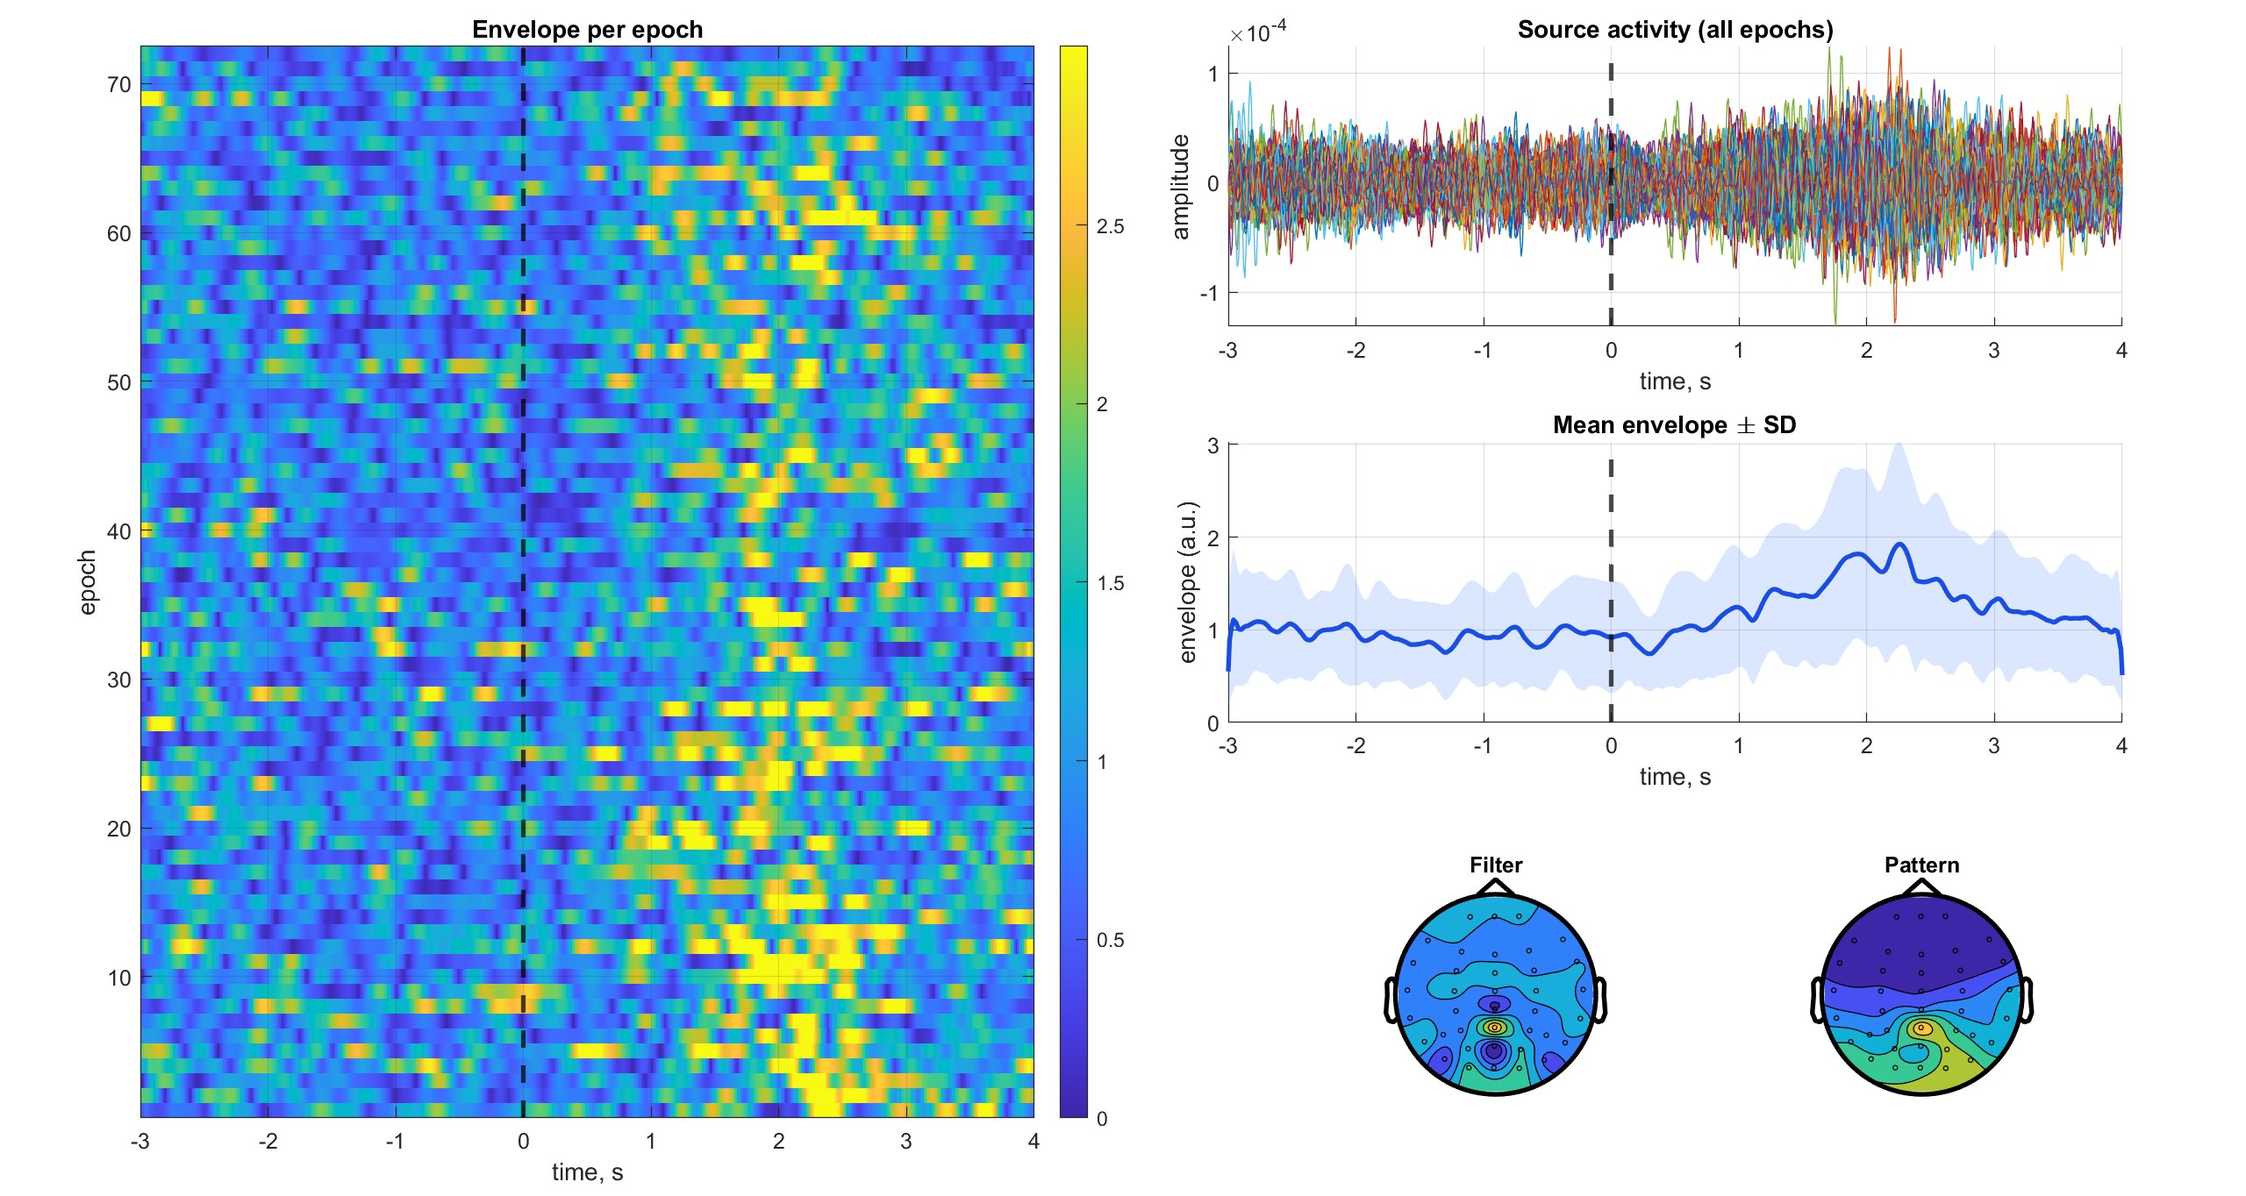
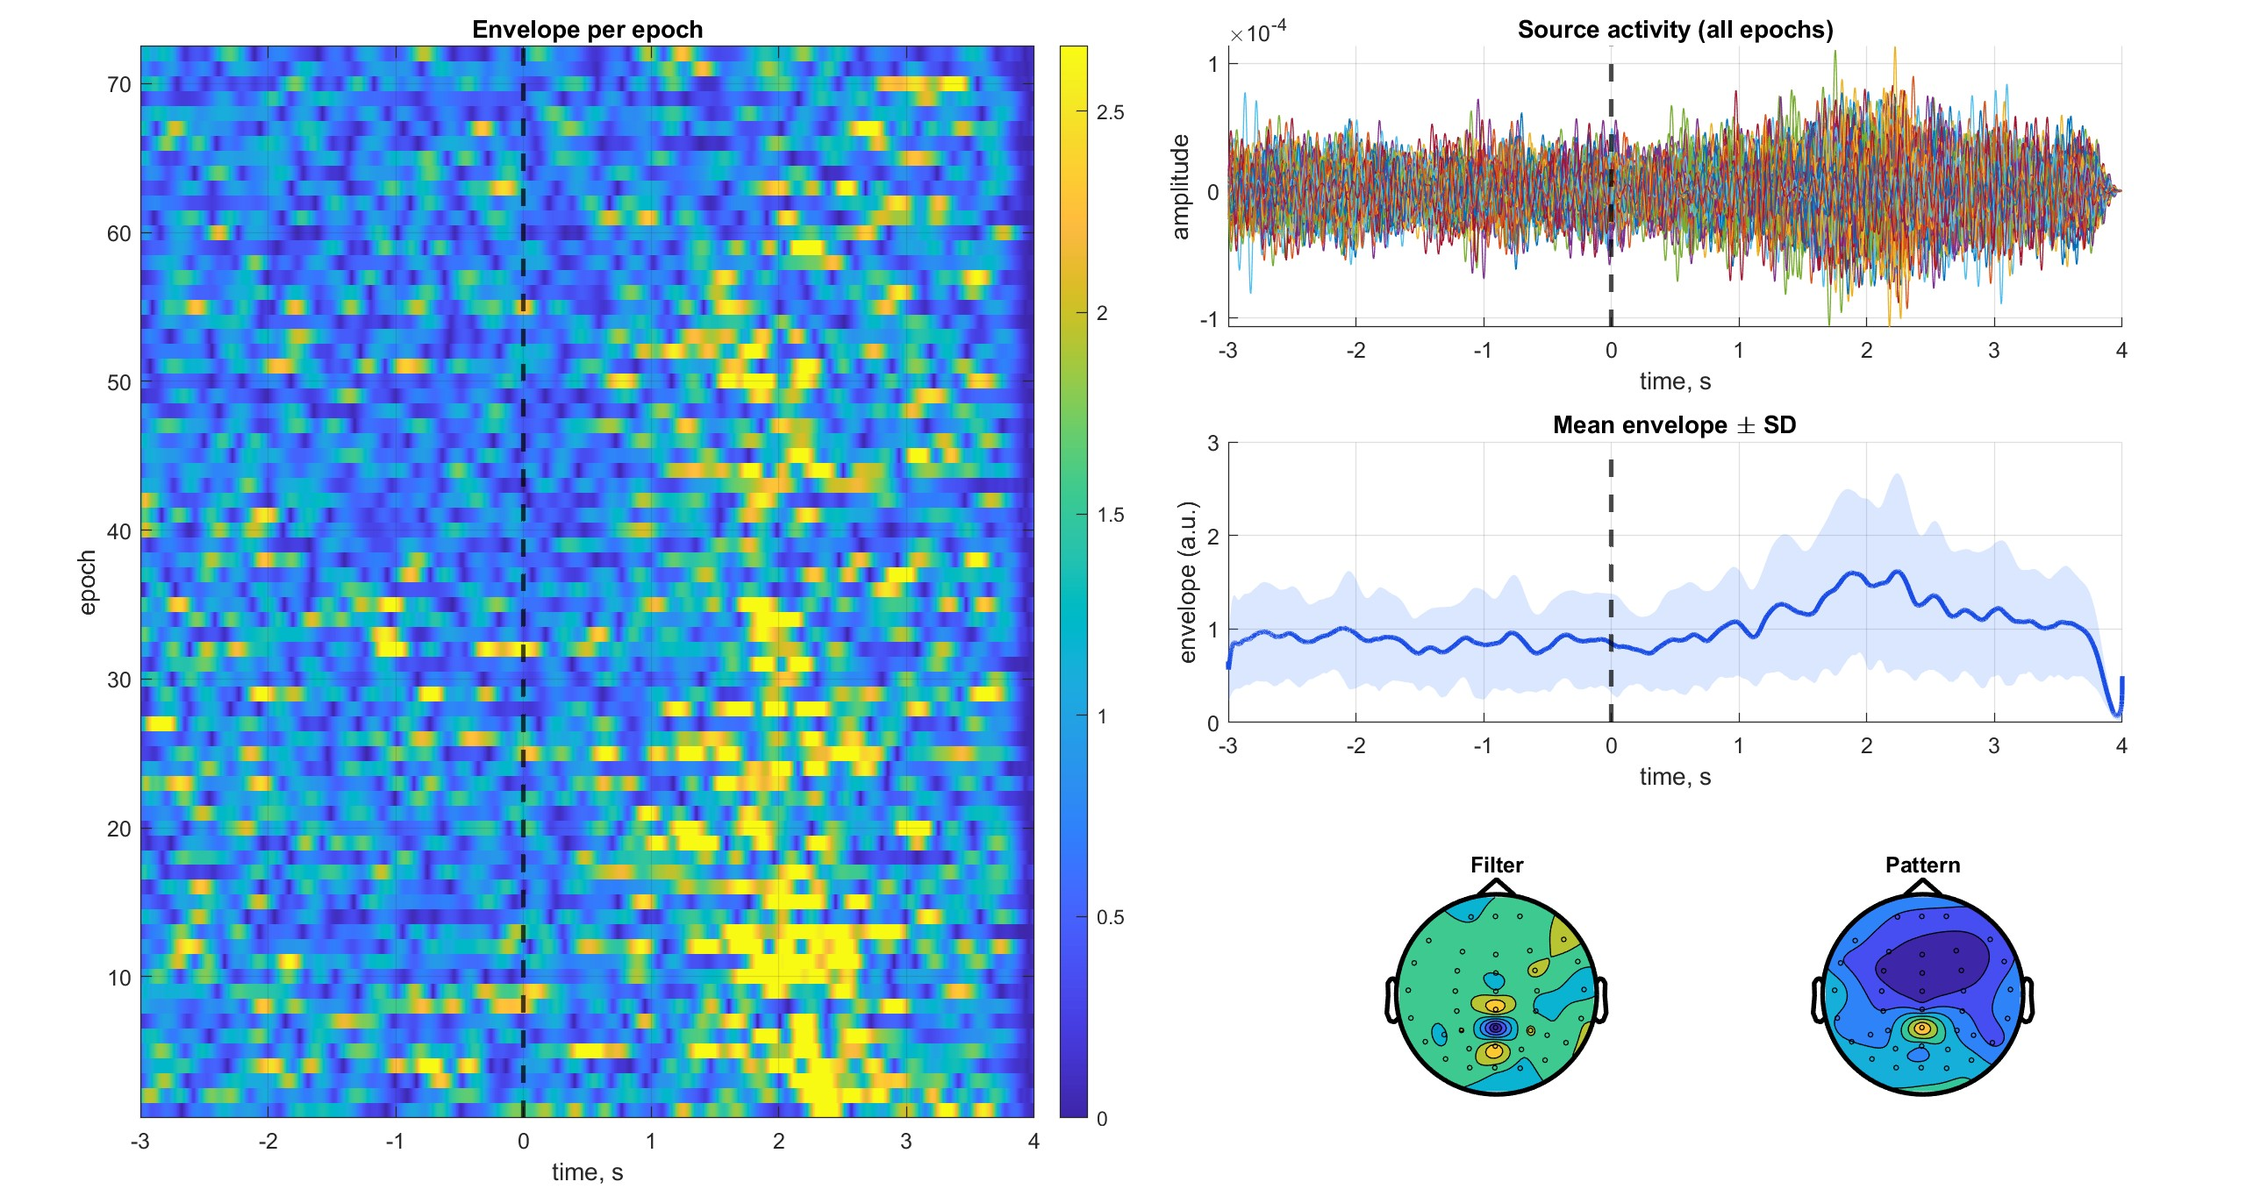
Refactor envelope analysis and update examples
Multiple updates across Cross-Subject-Rhythm and Envelope-CorrCA:

- Cross-Subject-Rhythm/examples: adjusted simulation parameters (Fs, N_subj, N_bg, SNR), added Ts, changed leadfield G to load MNE_EEG_FWD_TRPL file, and updated logging.
- Cross-Subject-Rhythm/src/find_induced_envelope.m: major refactor — removed old epoch/PCA/graph assembly, added regularization (lambda), epoching via epoch_data, Riemann distance computation, calc_riemann_dists and distance_riemann helper functions, and simplified eigen decomposition usage. Improved covariance regularization and distance-based graph building.
- Cross-Subject-Rhythm/src/generate_cross_subject_data.m: removed unused butter filter precompute and adjusted background envelope normalization loop index.
- Envelope-CorrCA/examples (MATLAB & Python): switched example datasets to ON recordings, updated epoch selection indices, changed window/step sizes, ensured proper slicing when calling env_corrca, and set default component index.
- Envelope-CorrCA/src/env_laplace_dec2.m: simplify Riemann distance computation by removing unnecessary real() cast.
- Envelope-CorrCA/src/gen_dat_corrca.m: minor formatting tweak.
- Envelope-CorrCA/pics: updated binary example image.

These changes improve realism of simulations (using real forward model), simplify and regularize covariance handling, and update examples to use ON dataset and new epoch/window settings.

diff --git a/Cross-Subject-Rhythm/src/find_induced_envelope.m b/Cross-Subject-Rhythm/src/find_induced_envelope.m
@@ -1,136 +1,53 @@
 function [U, Env_sum, Sources, L_mean, D_mean] = find_induced_envelope(X_all, Fs, Wsize, Ssize, N_comp)
-% Поиск индуцированной огибающей с использованием усреднения вероятностных
-% лапласианов по нескольким субъектам.
-%
-% Вход:
-% X_all - данные [Nsens x Nsamples x Nsubj]
-% Fs    - частота дискретизации
-% Wsize - размер окна в секундах
-% Ssize - шаг смещения окна в секундах
-% N_comp - количество извлекаемых компонент
-%
-% Выход:
-% U       - собственные векторы усредненного Лапласиана
-% Env_sum - восстановленная огибающая (сумма мощностей фильтров)
-% Sources - временные ряды извлеченных компонент
-% L_mean, D_mean - усредненные матрицы Лапласиана и диагоналей
-
 if nargin < 5
     N_comp = 5;
 end
 
 [Nsens, Nsamples, Nsubj] = size(X_all);
 
-% 1. Эпохирование и вычисление ковариационных матриц для каждого субъекта
-Covs_all_subj = {};
-Covs_vec_all_subj = {};
-Tcovs_all_subj = {};
+lambda = 0.01;
 
-% Определим размеры эпох
-window_length = round(Wsize * Fs);
-step_length = round(Ssize * Fs);
-N_epochs = floor((Nsamples - window_length) / step_length) + 1;
-
-fprintf('Разбиение на эпохи: %d окон на субъекта.\n', N_epochs);
-
-% Цикл по субъектам для получения ковариационных матриц и Лапласианов
-L_sum = 0;
-D_sum = 0;
-
+sigma = 100;
+Dists = [];
 for subj_idx = 1:Nsubj
-    X_subj = X_all(:,:,subj_idx);
+    subj_idx
+    Epochs = epoch_data(X_all(:,:,subj_idx)',Fs,Wsize,Ssize);
+    
+    [~,~,Nepochs] = size(Epochs);
 
-    % SVD/PCA для снижения размерности сенсорного пространства (опционально, но полезно для стабильности)
-    [Upca, S_pca, ~] = svd(X_subj, 'econ');
-    S_pca = diag(S_pca);
-    tol = max(size(X_subj)) * eps(S_pca(1));
-    r = sum(S_pca > tol);
-    ve = S_pca.^2;
-    var_explained = cumsum(ve) / sum(ve);
-    var_explained(end) = 1;
-    n_components = find(var_explained >= 0.99, 1);
-    n_components = max(min(n_components, r), 1);
-    Upca = Upca(:, 1:n_components);
-    X_subj_pca = Upca' * X_subj;
+    Covs_reg = zeros(Nsens,Nsens,Nepochs);
+    for ep_idx = 1:Nepochs
+        C = cov(Epochs(:,:,ep_idx));
+        Covs_reg(:,:,ep_idx) = C + lambda * eye(Nsens); 
+    end    
 
-    % Нарезаем на окна
-    ep_wins = zeros(n_components, window_length, N_epochs);
-    for i = 1:N_epochs
-        start_idx = (i-1)*step_length + 1;
-        end_idx = start_idx + window_length - 1;
-        ep_wins(:,:,i) = X_subj_pca(:, start_idx:end_idx);
-    end
-
-    % Ковариационные матрицы
-    Covs = zeros(n_components, n_components, N_epochs);
-    Covs_vec = zeros(N_epochs, n_components * (n_components + 1) / 2);
-
-    for i = 1:N_epochs
-        C = cov(ep_wins(:,:,i)');
-        Covs(:,:,i) = C;
-        % Верхнетреугольная часть
-        Covs_vec(i,:) = C(triu(true(size(C))));
-    end
-
-    % Для графа используем Евклидово расстояние между векторами ковариаций (или касательное пространство)
-    % Так как у каждого субъекта свое PCA пространство, риманово среднее считать между субъектами сложно
-    % Но мы строим граф (L, D) по эпохам ВНУТРИ субъекта!
-
-    % Построение Лапласиана для субъекта (аналогично laplace_embedding.m)
-    sigma = 10; % Параметры можно вынести в аргументы
-    N_neigb = 10;
-
-    % [L, D, ~, ~] = laplace_embedding(Covs_vec, sigma, N_neigb);
-    % Реализуем локально, чтобы не зависеть от внешних файлов
-    [idx, D_knn] = knnsearch(Covs_vec, Covs_vec, 'K', N_neigb + 1, 'Distance', 'euclidean');
-    idx(:, 1) = [];
-    D_knn(:, 1) = [];
-    weights = exp(-(D_knn.^2) / (2 * sigma^2));
-    row_idx = repmat((1:N_epochs)', 1, N_neigb);
-    W_n = sparse(row_idx(:), idx(:), weights(:), N_epochs, N_epochs);
-    W = max(W_n, W_n');
-    D = diag(sum(W, 2));
-    L = D - W;
-
-    % Суммируем Лапласианы
-    if subj_idx == 1
-        L_sum = L;
-        D_sum = D;
-    else
-        L_sum = L_sum + L;
-        D_sum = D_sum + D;
-    end
-
-    % Сохраняем данные для восстановления огибающей
-    Covs_all_subj{subj_idx} = Covs;
-    Covs_vec_all_subj{subj_idx} = Covs_vec;
+    Dist = calc_riemann_dists(Covs_reg);    
+    W = exp(-(Dists.^2) / (2 * sigma^2));
+    Dists(:,:,subj_idx) = W; 
 end
 
-% Усредняем Лапласианы
-L_mean = L_sum / Nsubj;
-D_mean = D_sum / Nsubj;
-
-% 2. Находим собственные векторы усредненного графа Лапласиана
-% 'sm' - smallest magnitude, т.к. 'sr' (smallest real) может ругаться в octave/matlab для обобщенной задачи
-[U, S_eig] = eigs(L_mean, D_mean, N_comp + 1, 'sm');
+[U, S_eig] = eigs(L, D, N_comp + 1, 'sm');
 S_eig = diag(S_eig);
-U = U(:, 2:end); % Отбрасываем первую компоненту (соответствует собственному значению 0)
+U = U(:, 2:end);
 
 Sources = U;
 
-% 3. Восстановление огибающей для первого собственного вектора
-% Мы используем данные первого субъекта для демонстрации (т.к. у каждого свое PCA)
-% В идеале, проекция должна быть усреднена или применена к общему сенсорному пространству
-comp_idx = 1;
-subj_idx_for_env = 1;
+end
 
-Covs_pca = Covs_all_subj{subj_idx_for_env};
-Covs_vec_pca = Covs_vec_all_subj{subj_idx_for_env};
-n_comp_pca = size(Covs_pca, 1);
+function Dists = calc_riemann_dists(Covs)
+    n = size(Covs,3);
+    Dists = zeros(n);
+    for i=1:n-1
+        for j=i+1:n
+            A = Covs(:,:,i);
+            B = Covs(:,:,j);
+            d = distance_riemann(A,B); 
+            Dists(i,j) = d;
+        end
+    end
+    Dists = (Dists + Dists');
+end
 
-% Поскольку U содержит временную динамику по окнам (собственные векторы Лапласиана),
-% мы можем напрямую использовать ее как огибающую, как в laplacian_decomposition.m
-Env_sum = Sources(:, comp_idx);
-Env_sum = (Env_sum - mean(Env_sum)) / std(Env_sum);
-
+function a = distance_riemann(A,B)
+    a = sqrt(sum(log(eig(A,B)).^2));
 end

diff --git a/Envelope-CorrCA/examples/example_center-out.m b/Envelope-CorrCA/examples/example_center-out.m
@@ -9,8 +9,8 @@ if ~exist('ft_defaults','file')
 end
 
 %% Target epochs
-sub_path = 'D:\OS(CURRENT)\data\parkinson\pathology\Patient_1_CenterOut_OFF_EEG_clean_epochs.fif';
-% sub_path = 'D:\OS(CURRENT)\data\parkinson\control\Control_4_CenterOut_epochs.fif';
+sub_path = 'D:\OS(CURRENT)\data\parkinson\pathology\Patient_1_CenterOut_ON_EEG_clean_epochs.fif';
+% sub_path = 'D:\OS(CURRENT)\data\parkinson\control\Control_7_CenterOut_epochs.fif';
 cfg = [];
 cfg.dataset = sub_path; 
 Epochs_inf = ft_preprocessing(cfg); 
@@ -20,19 +20,28 @@ Fs = Epochs_inf.hdr.Fs;
 [~, n_ts_ep] = size(Epochs_inf.trial{1});
 
 %%
-idxs = [  0,   1,   2,   3,   6,   8,  12,  13,  15,  16,  17,  19,  22,...
-        24,  25,  28,  30,  32,  33,  35,  37,  39,  41,  42,  44,  45,...
-        48,  50,  51,  55,  57,  58,  59,  62,  63,  65,  69,  70,  73,...
-        74,  75,  78,  79,  82,  85,  88,  89,  92,  93,  94,  97, 100,...
-       101, 103, 105, 106, 109, 110, 111, 116, 117, 120, 121, 123, 125,...
-       127, 130, 131, 133, 135, 136, 137] + 1;
+% idxs = [  0,   1,   2,   3,   6,   8,  12,  13,  15,  16,  17,  19,  22,...
+%         24,  25,  28,  30,  32,  33,  35,  37,  39,  41,  42,  44,  45,...
+%         48,  50,  51,  55,  57,  58,  59,  62,  63,  65,  69,  70,  73,...
+%         74,  75,  78,  79,  82,  85,  88,  89,  92,  93,  94,  97, 100,...
+%        101, 103, 105, 106, 109, 110, 111, 116, 117, 120, 121, 123, 125,...
+%        127, 130, 131, 133, 135, 136, 137] + 1;
+idxs = [  0,   1,   4,   5,   7,   8,   9,  10,  13,  15,  17,  18,  19,...
+        24,  25,  27,  30,  32,  33,  35,  38,  39,  41,  43,  45,  46,...
+        50,  53,  54,  56,  58,  59,  60,  64,  65,  68,  69,  71,  72,...
+        75,  76,  77,  78,  82,  84,  86,  87,  89,  91,  93,  96,  97,...
+        98, 102, 103, 105, 108, 109, 112, 115, 116, 119, 120, 125, 126,...
+       129, 130, 131, 132, 135, 137, 139, 143, 145] + 1;
+
+all_idxd = 1:numel(Epochs_inf.trial);
+% idxs = setdiff(all_idxd, idxs); 
 
 Fmin = 9;
 Fmax = 14;
 band = [Fmin Fmax];
 
-Wsize = 0.125;
-Ssize = 0.05;
+Wsize = 1/Fmin;
+Ssize = Wsize/2;
 
 [b_band,a_band] = butter(4, band/(Fs/2));
 
@@ -46,15 +55,16 @@ for ep_idx=1:numel(Epochs_inf.trial)
     Epochs(:,:,ep_idx) = Epfilt;
     Epochs_alg(:,:,ep_idx) = Epfilt(Fs/2+1:end-Fs/2,:);
 end
+
 Epochs = Epochs(:,:,idxs);
 Epochs_alg = Epochs_alg(:,:,idxs);
 
-[W, A] = env_corrca(Epochs_alg, Fs, Wsize, Ssize);
+[W, A] = env_corrca(Epochs_alg(:,:,:), Fs, Wsize, Ssize);
 % [W, A] = env_laplace_dec2(Epochs, Fs, Wsize, Ssize);
 
 %%
 gl_c = 1;
-comp_idx = 38;
+comp_idx = 1;
 wx = squeeze(W(gl_c,:,comp_idx))';
 patt = squeeze(A(gl_c,:,comp_idx));
 % wx = squeeze(W(:,comp_idx));

diff --git a/Cross-Subject-Rhythm/examples/example_cross_subject.m b/Cross-Subject-Rhythm/examples/example_cross_subject.m
@@ -7,19 +7,15 @@ clear; close all; clc;
 addpath(fullfile(pwd, '..', 'src'));
 
 %% 1. Параметры симуляции
-Fs = 250;               % Частота дискретизации, Гц
+Fs = 100;               % Частота дискретизации, Гц
 Ts = 10;                % Длительность записи, с
 flanker = 1;            % Отступы по краям для устранения краевых эффектов
-N_subj = 10;            % Количество субъектов (например, 10 участников)
+N_subj = 15;            % Количество субъектов 
 N_distr = 1;            % Количество целевых индуцированных источников
-N_bg = 10;              % Количество фоновых шумящих источников
-SNR = 5;                % Отношение сигнал/шум для амплитуды целевой огибающей
+N_bg = 50;              % Количество фоновых шумящих источников
+SNR = 10;                % Отношение сигнал/шум для амплитуды целевой огибающей
 
-% Создаем синтетическую матрицу Leadfield (G)
-% Для примера возьмем 30 сенсоров и 100 возможных диполей в мозге (по 3 оси на каждый)
-Nsens = 30;
-Nsites = 100;
-G = randn(Nsens, Nsites * 3);
+G = load('D:\OS(CURRENT)\data\simulation_support_data\eeg\MNE_EEG_FWD_TRPL.mat').MNE_EEG_FWD_TRPL;
 
 fprintf('Генерация данных для %d субъектов...\n', N_subj);
 tic;

diff --git a/Cross-Subject-Rhythm/src/generate_cross_subject_data.m b/Cross-Subject-Rhythm/src/generate_cross_subject_data.m
@@ -36,9 +36,6 @@ tm_snr = tm * SNR;
 tm_snr = tm_snr - min(tm_snr) + eps; % Положительная огибающая
 target_env = tm_snr;
 
-% Массивы фильтров для шума
-[bn, an] = butter(4, [1, 35] / (Fs / 2)); % Для белого шума (сенсорный шум)
-
 % Предварительно выделяем память для всех субъектов
 X_all_subjects = zeros(Nsens, N, N_subj);
 
@@ -109,7 +106,7 @@ for k = 1:Ndistr
 end
 
 % Добавляем вариации к фоновым огибающим и нормализуем
-for k = Ndistr+1:Nsrc
+for k = 1:Nsrc
     m = M(k,:);
     m = (m - mean(m)) / std(m);
 

diff --git a/Envelope-CorrCA/examples/example_center-out.py b/Envelope-CorrCA/examples/example_center-out.py
@@ -12,8 +12,8 @@ from matplotlib.gridspec import GridSpec
 
 # %%
 # For parkinson example chose 8-12 Hz filter below
-dpath = 'D:/OS(CURRENT)/data/parkinson/pathology/Patient_1_CenterOut_OFF_EEG_clean_epochs.fif'
-# dpath = 'D:/OS(CURRENT)/data/parkinson/control/Control_4_CenterOut_epochs.fif'
+dpath = 'D:/OS(CURRENT)/data/parkinson/pathology/Patient_1_CenterOut_ON_EEG_clean_epochs.fif'
+# dpath = 'D:/OS(CURRENT)/data/parkinson/control/Control_7_CenterOut_epochs.fif'
 
 epochs = mne.read_epochs(dpath, preload=True)
 

diff --git a/Envelope-CorrCA/src/gen_dat_corrca.m b/Envelope-CorrCA/src/gen_dat_corrca.m
@@ -23,7 +23,7 @@ tm = tm(:,flanker*Fs+1:end-flanker*Fs);
 tm = (tm - mean(tm,2)) / std(tm,[],2);
 
 [~, XBgConst] = generate_distributed_sources( ...
-    G, NConstSrc, ...te
+    G, NConstSrc, ...
     Ntg, flanker, TrLeSe*NTr, Fs, false, false);
 
 nSamplesTrial = TrLeSe * Fs;

diff --git a/Envelope-CorrCA/src/env_laplace_dec2.m b/Envelope-CorrCA/src/env_laplace_dec2.m
@@ -170,7 +170,9 @@ function W = build_graph_from_dists(Dists, N_neigb)
 end
 
 function a = distance_riemann(A,B)
-    a = sqrt(sum(real(log(eig(A,B))).^2));
+
+    a = sqrt(sum(log(eig(A,B)).^2));
+
 end
 
 function [v] = cov2upper(C)
